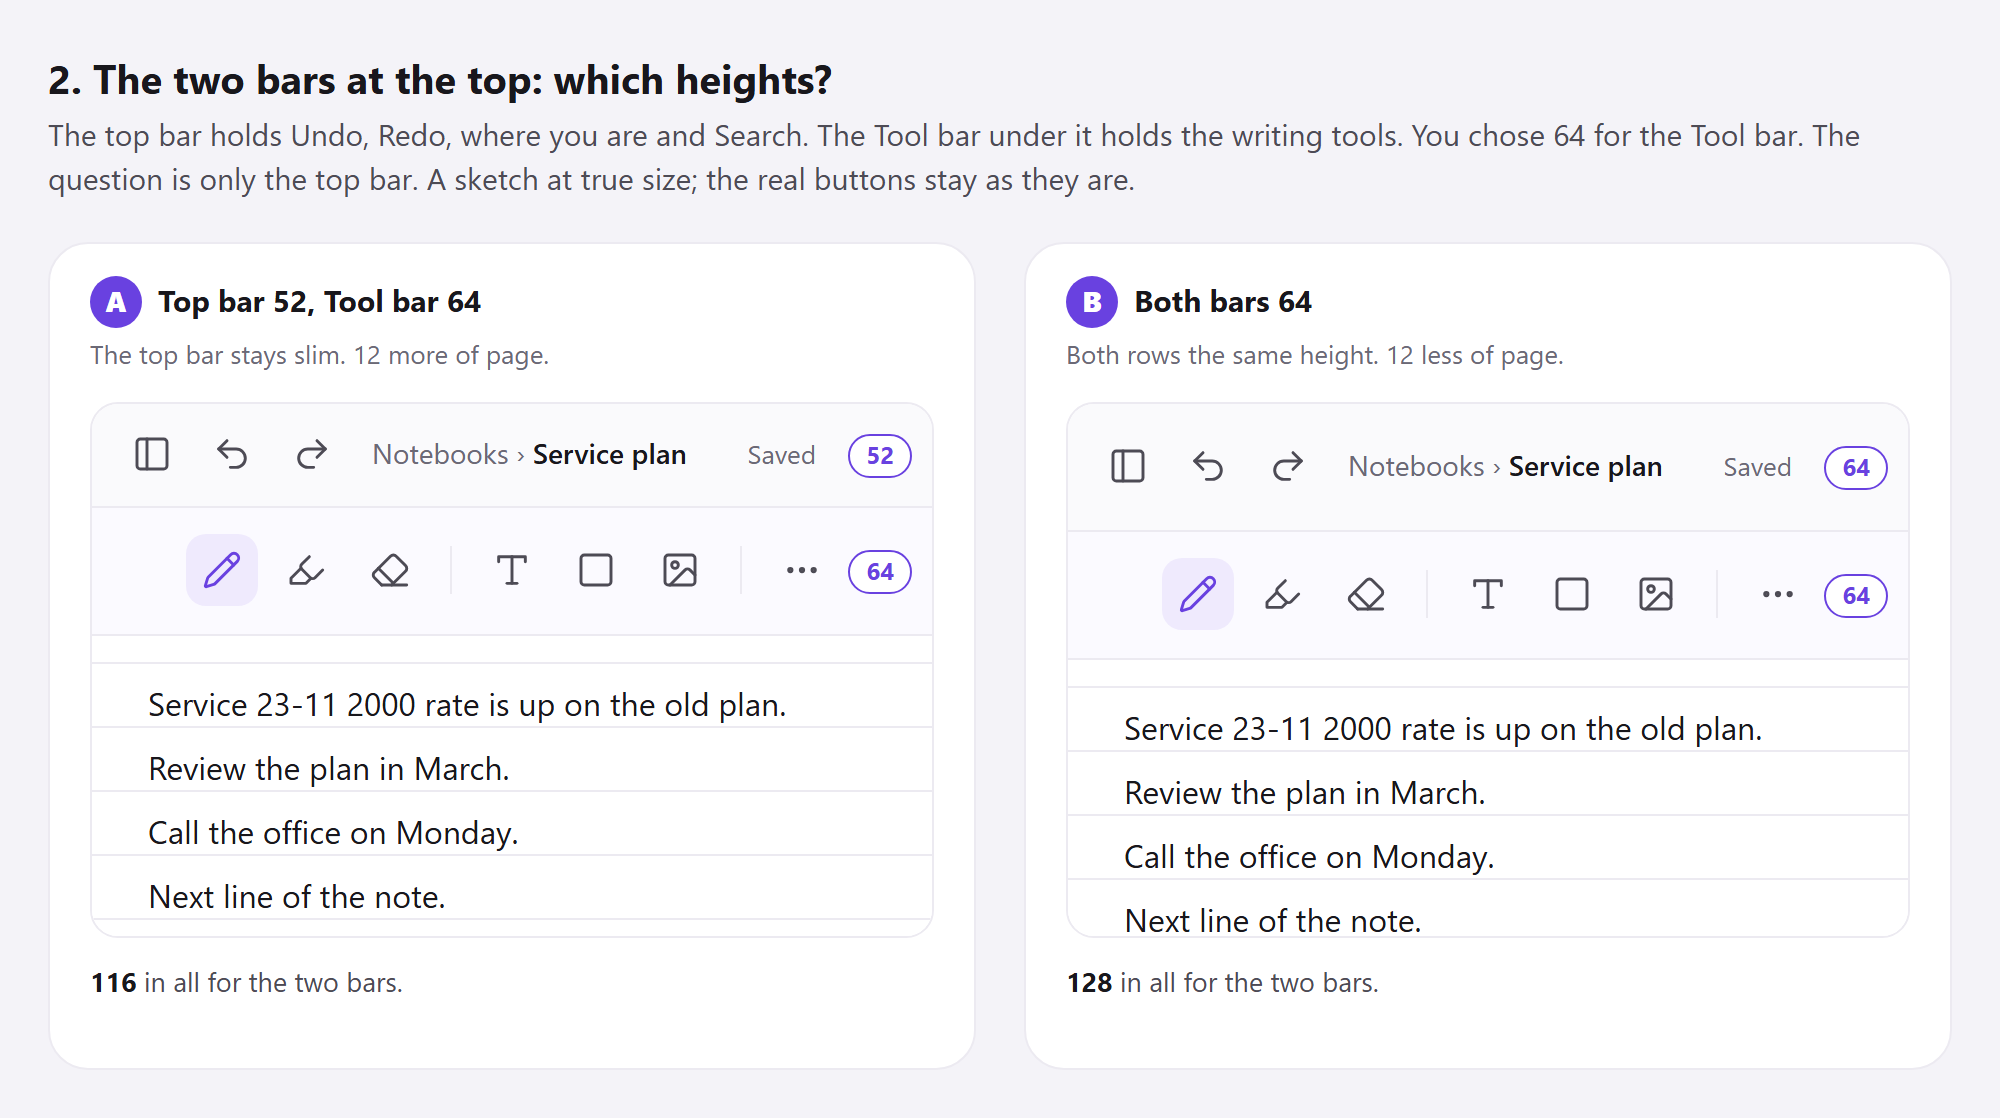
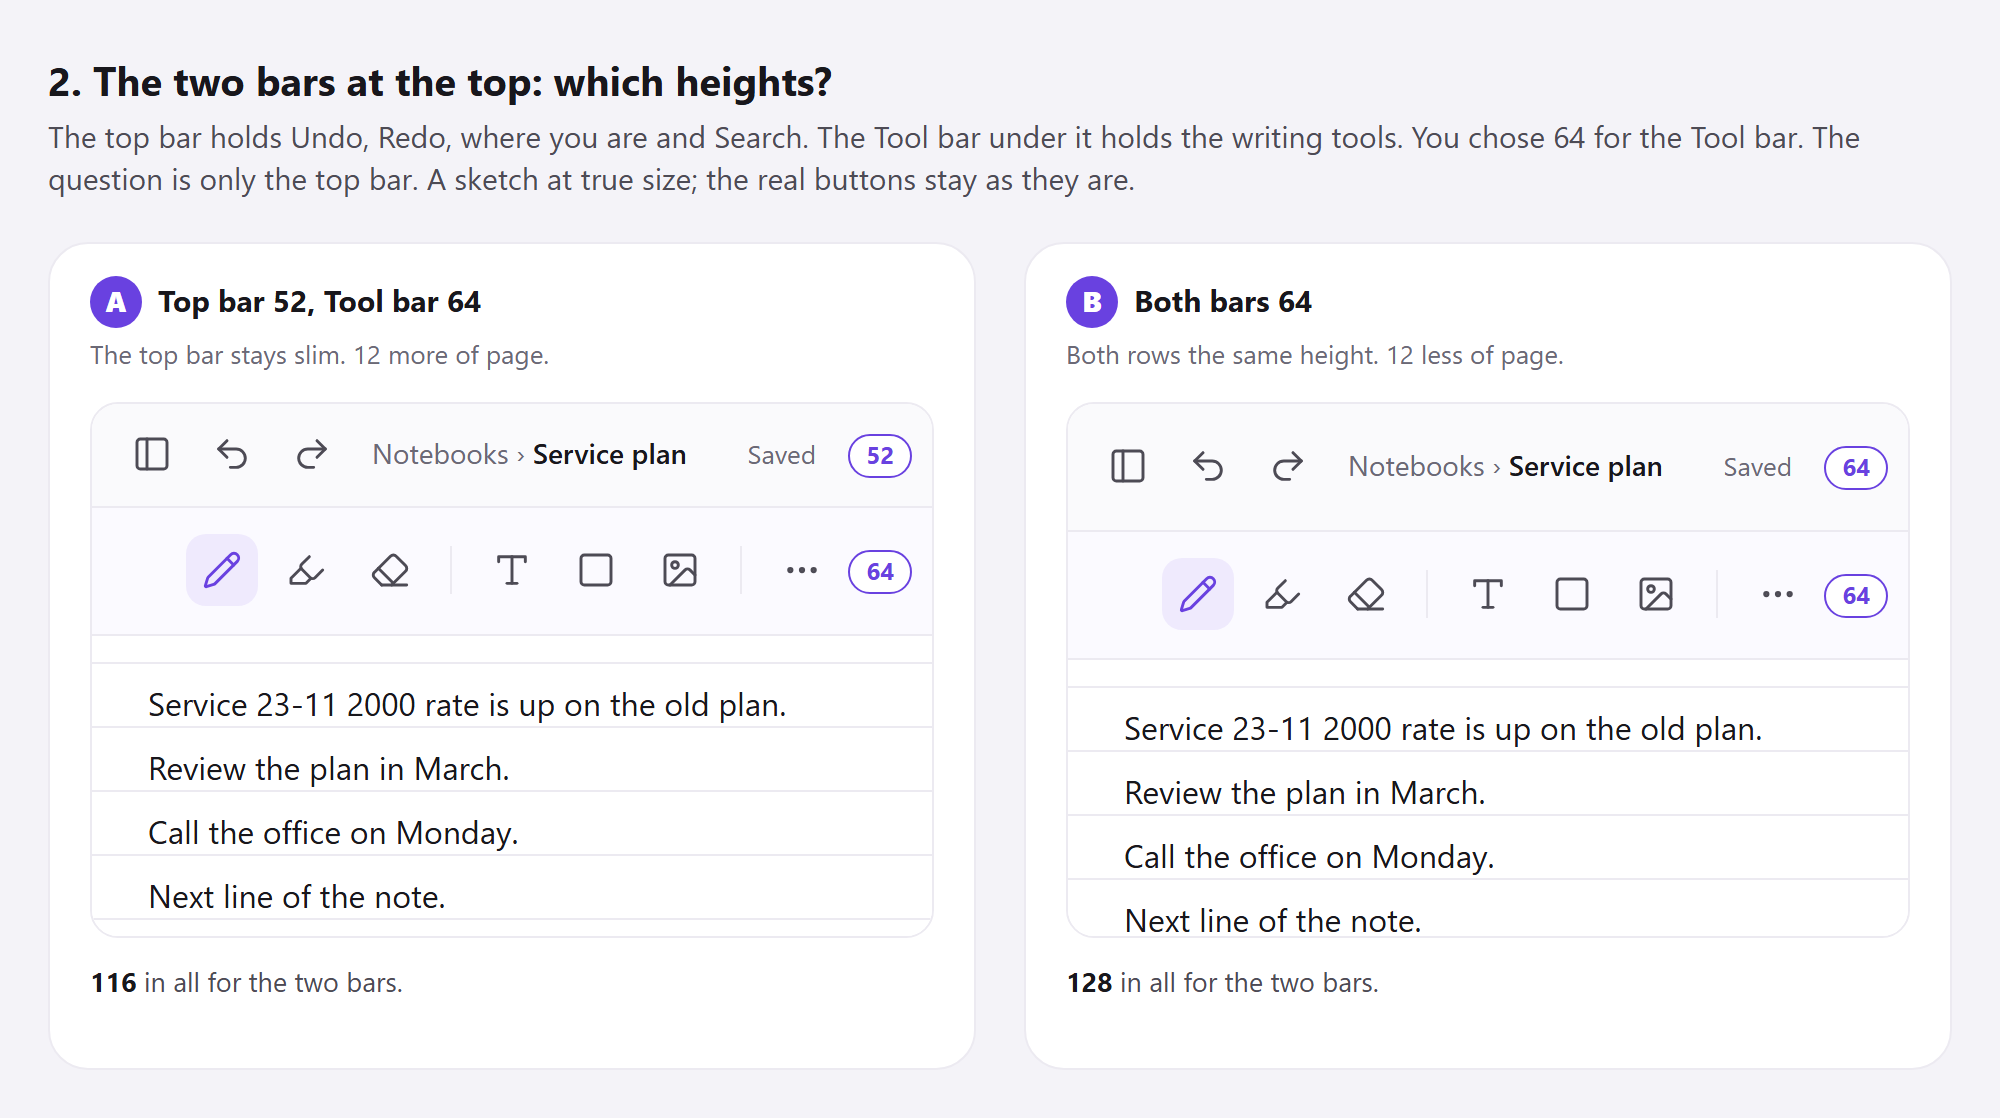
Owner, 24 Nov: top bar 52 decided; toast picture shows A, B and C; names question open

diff --git a/docs/mockups/design-clashes/index.html b/docs/mockups/design-clashes/index.html
@@ -46,6 +46,15 @@
         margin: 0 0 20px;
         color: var(--ink-soft);
       }
+      .frame.wide {
+        width: 1400px;
+      }
+      .frame.wide .row {
+        grid-template-columns: 1fr 1fr 1fr;
+      }
+      .frame.wide .toast {
+        max-width: 350px;
+      }
       .row {
         display: grid;
         grid-template-columns: 1fr 1fr;
@@ -279,11 +288,10 @@
     </svg>
 
     <!-- Frame 1: the toast shape -->
-    <section class="frame" id="toast">
+    <section class="frame wide" id="toast">
       <h2>1. The toast: which shape?</h2>
       <p class="sub">
-        A toast is the small message at the bottom right, for example after a delete, with Undo. Same size and same
-        words in both; only the corners differ.
+        A toast is the small message at the bottom right, for example after a delete, with Undo. Three ways to round its corners.
       </p>
       <div class="row">
         <div class="opt">
@@ -320,11 +328,18 @@
             </div>
           </div>
         </div>
-      </div>
-      <p class="sum">
-        <b>C (the pick):</b> the pill of A when the words fit one line, the soft corners of B when they need two
-        lines.
-      </p>
+      <div class="opt">
+<span class="tag"><b>C</b>Pill for one line, soft corners for two</span>
+<p class="note">A short toast is a pill; a long one becomes a rounded box.</p>
+<div class="stage">
+<span class="cap">One line</span>
+<div class="toast pill"><span class="x"><svg viewBox="0 0 24 24"><use href="#i-x" /></svg></span><span>Page deleted</span><span class="act">Undo</span></div>
+<span class="cap">Two lines</span>
+<div class="toast r14"><span class="x"><svg viewBox="0 0 24 24"><use href="#i-x" /></svg></span><span>The picture is kept on this device and is sent when you are online.</span><span class="act">Try again</span></div>
+</div>
+</div>
+</div>
+      <p class="sum">Same toast, same words, same size in all three. Only the corners differ.</p>
     </section>
 
     <!-- Frame 2: the bar heights -->

diff --git a/docs/DECISIONS.md b/docs/DECISIONS.md
@@ -4,6 +4,8 @@ Decisions from 21 Nov 2026 on, and every "Decisions to review" item and every de
 
 ## Decisions to review
 
+- **24 Nov 2026 · Top bar height (owner, on the picture):** A: top bar 52, Tool bar 64 (the pick; the case against: two rows of different heights). Matches shell-spec §8 and tool bar v8 as kept by the fold; closed. **Toast shape:** the owner leans to A (fully round ends) but the first picture did not show C; the picture now shows A, B and C; waiting for the final word. **Names, open:** the owner remembers the four names as Tool bar, Action bar, Selection bar and Hold menu, with no "picker". The record says otherwise (this file, the 21 to 22 Nov names entries: two bars, Tool bar and Action bar; "picker" replaces "strip" for what opens from a button; Hold menu; principles.md Q15 decided A on the pictures page). Nothing is renamed again until the owner answers the one question sent in chat; the rename of 24 Nov (tool/names-q15, merged) follows the record.
+
 - **24 Nov 2026 · Action bar fold, the owner's three answers (all the picks):** (1) A: a pinned bar with nothing selected folds into the round pin button and opens by itself on a selection (the case against: it opens without being asked); (2) A: "Keep bar open" is a row in ⋯ (against: one tap away); (3) A: built with the first Action bar build (against: about one more day, estimate, and a change to a confirmed spec). Written into docs/features/action-bar.md: the Pinned folds rule, S15, AB-14; the tool table row changes with the redraw. One count toward the replan: 3 of 10.
 
 - **24 Nov 2026 · Design-number clashes, the owner's answers:** (3) Undo and Redo sit only at the top left of the top bar; the copy at the Tool bar's right end (tool bar v8 TB-01) goes. (4) The old names: the owner confirmed the 22 Nov decision (Q15); the rename runs on the branch tool/names-q15. (5) Breakpoints 640 and 1180, the iPad ones (owner: on a PC the frame may leave empty space); close button 28 inside a 44 target (the pick, not objected). (1) the toast shape and (2) the top bar height were not clear: explained again with two pictures, docs/mockups/design-clashes/png/; waiting. To apply after the rename merges: (3) in docs/features/toolbar-v8.md, (5) in docs/design/system.md, and the title of system.md ("proposal" goes).

diff --git a/docs/STATE.md b/docs/STATE.md
@@ -73,7 +73,8 @@ git fetch -q origin && for b in $(git for-each-ref --format='%(refname:short)' r
 
 - **The catch-up check C0 on the iPad, items 4 to 11** (about 15 minutes; the eleven items are in docs/plans/phases/phase-2-finish.md section 6; "Circle recorder" off). Items 1 to 3 answered 22 Nov evening (#55, #56, #57). Reply with the numbers that felt wrong, or "rest fine".
 - **C1a, the Lasso session, 5 minutes:** Settings, Try new features, Lasso recorder on; "Copy last trace" when an outline stays or a loop acts on the old selection. A trace of a wrong circle pick unlocks #57.
-- **Two small design choices, with pictures (24 Nov):** docs/mockups/design-clashes/png/: 1 the toast shape (A pill, B soft corners, C the pick: pill for one line, soft corners for two); 2 the top bar height (A 52, the pick; B 64). Reply like "1C 2A".
+- **The toast shape, last word (24 Nov):** docs/mockups/design-clashes/png/1-toast-shape.png now shows A, B and C; you lean to A; reply A, B or C. (The top bar height is decided: 52, Tool bar 64.)
+- **The names, one question (24 Nov, chat):** you remember "Selection bar" as one of the four names and no "picker"; the record of 22 Nov says Tool bar, Action bar, pickers, Hold menu. Nothing more is renamed until you answer.
 - **The Action bar PC picture: the redraw is next** (the fold answered 24 Nov, all three picks; action-bar.md carries the Pinned folds rule, S15, AB-14). To do, after the proof run frees the PC: one redraw of the frames with the icon fixes of DECISIONS 24 Nov plus the folded state and "Keep bar open", the tool table row in the same commit, one review against principles.md and shell-spec §5, then your yes.
 - **Later, in this order:** the phase 1B planning (one questionnaire); the Notion mirror only on your word (docs/IDEAS.md).
 - **Small, not urgent:** Decisions to review in docs/DECISIONS.md; the security-header check E6 (#54); developer-tool warnings (glob, minimatch; the fix breaks the offline plugin, re-checked at each phase end); old working copies you may delete when you like.
